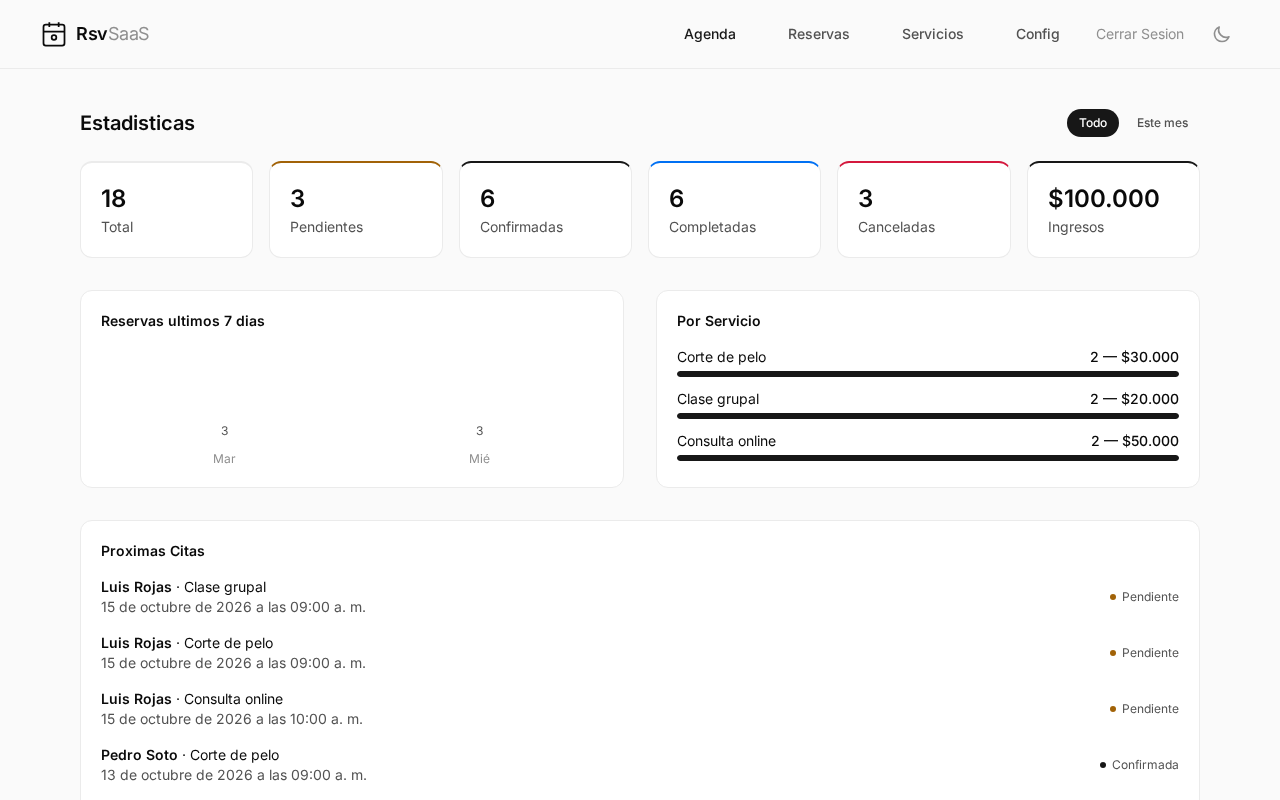
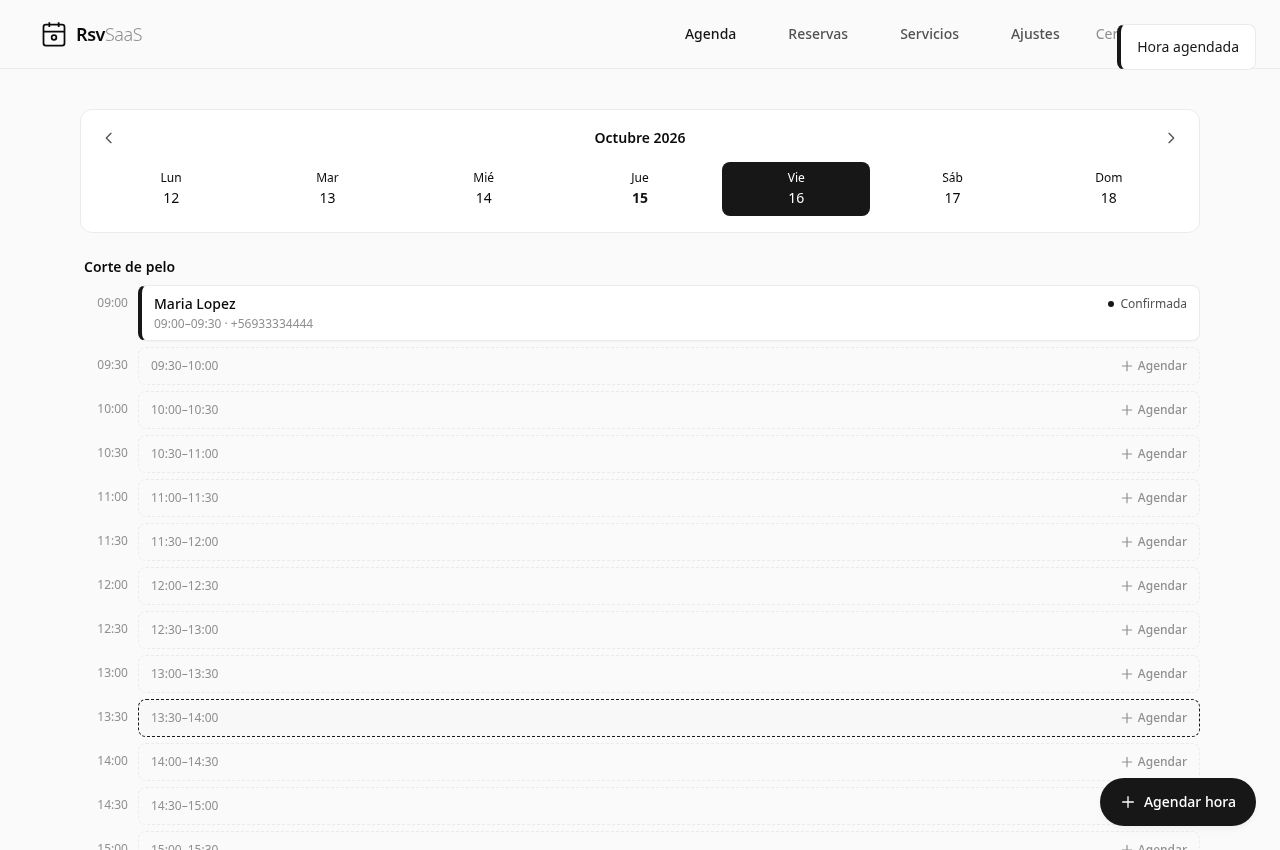
fix: booking detail opens as a sheet next to the tap
- inline popover rendered at the end of the day, out of view on long days
- sheet with WhatsApp actions, 24h time labels

diff --git a/frontend/src/pages/AgendaPage.tsx b/frontend/src/pages/AgendaPage.tsx
@@ -280,8 +280,14 @@ export default function AgendaPage() {
         </Modal>
       )}
 
+      {/* Detalle de la cita como sheet: junto al tap, no al final del dia */}
       {showPopover && selectedBooking && (
-        <div className="mt-4 animate-slide-up">
+        <Modal
+          sheet
+          open
+          title="Cita"
+          onClose={() => { setShowPopover(false); setSelectedBooking(null); }}
+        >
           <BookingPopover
             booking={selectedBooking.booking}
             serviceName={selectedBooking.serviceName}
@@ -290,7 +296,7 @@ export default function AgendaPage() {
             onCancel={handleCancelBooking}
             onClose={() => { setShowPopover(false); setSelectedBooking(null); }}
           />
-        </div>
+        </Modal>
       )}
 
       {rescheduleTarget && (

diff --git a/frontend/src/components/BookingPopover.tsx b/frontend/src/components/BookingPopover.tsx
@@ -25,6 +25,7 @@ export default function BookingPopover({
   const timeLabel = new Date(booking.start_time).toLocaleTimeString("es-CL", {
     hour: "2-digit",
     minute: "2-digit",
+    hour12: false,
   });
 
   const dateLabel = new Date(booking.start_time).toLocaleDateString("es-CL", {
@@ -34,7 +35,7 @@ export default function BookingPopover({
   });
 
   return (
-    <div className="rounded-xl border border-border bg-surface p-4 shadow-sm md:p-5">
+    <div>
       <div className="mb-3 flex items-start justify-between">
         <div>
           <p className="text-sm font-semibold text-text">{booking.client_name}</p>
